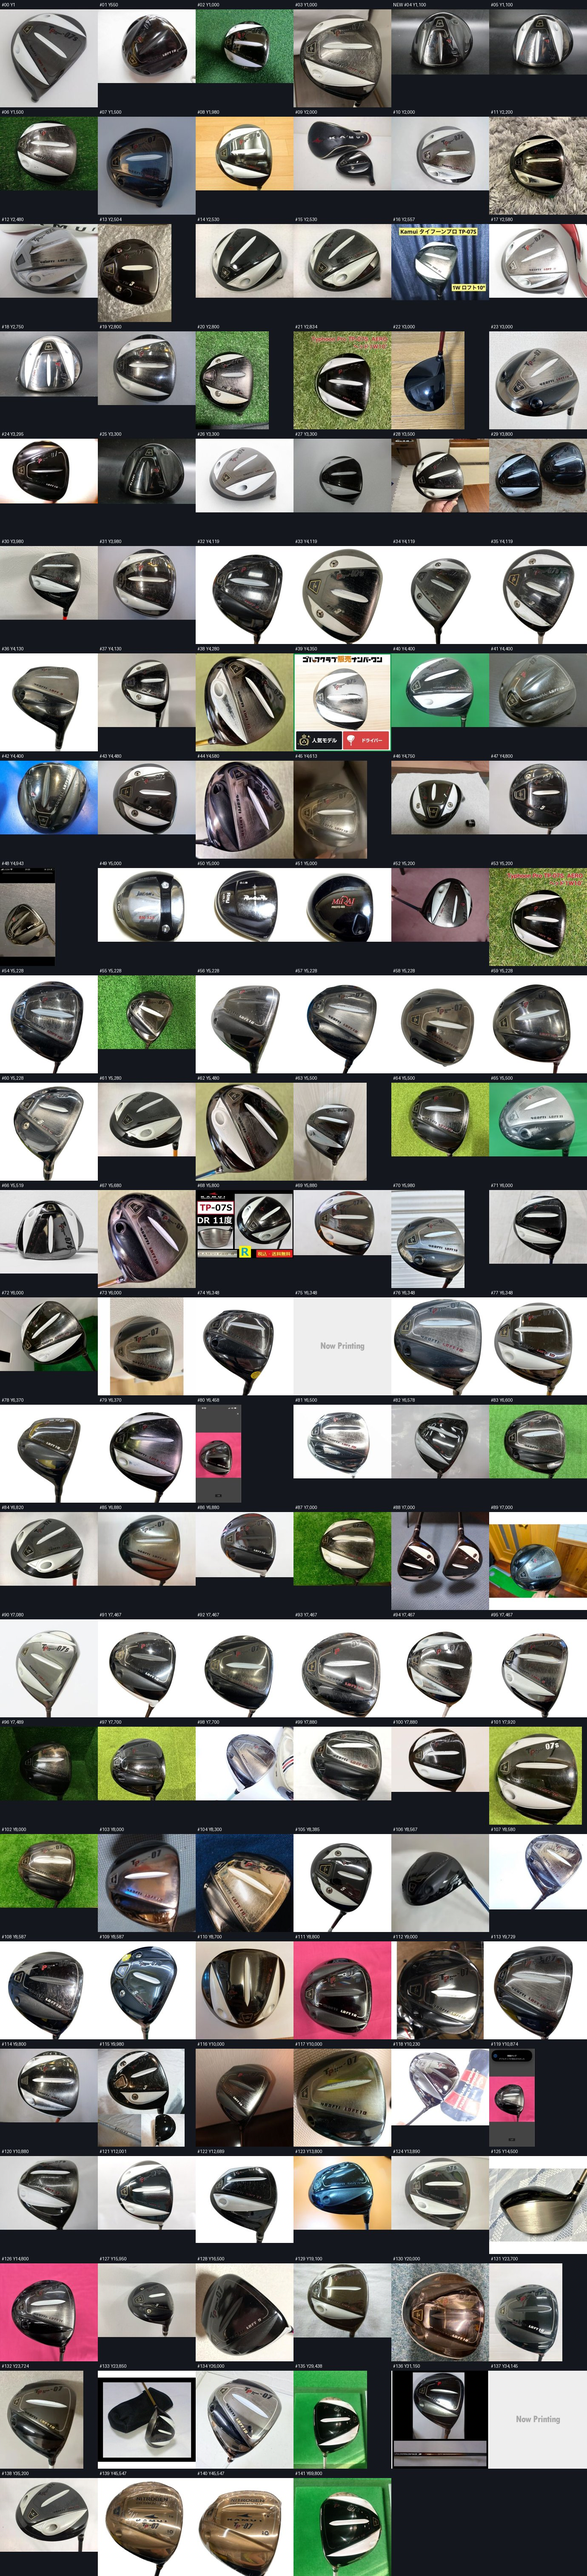
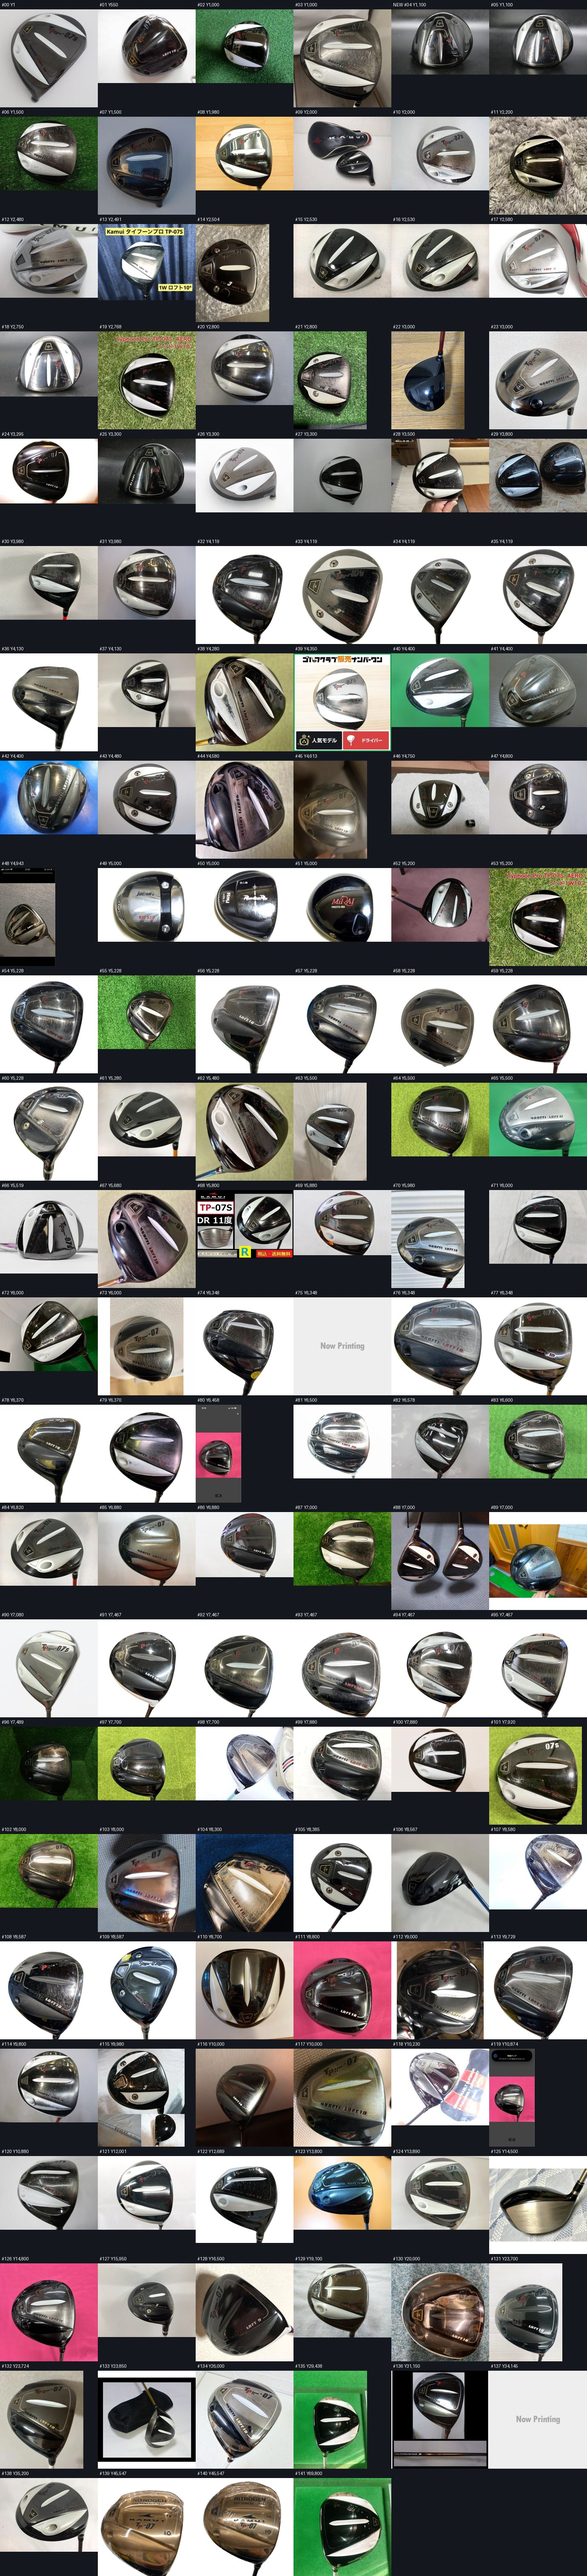
auto scan 2026-08-28 21:46UTC

Changed region(s): [[0.1558, 0.0625, 0.8413, 0.1875], [0.3428, 0.9375, 0.4986, 1.0], [0.1558, 0.9375, 0.3116, 1.0]]

diff --git a/index.html b/index.html
@@ -48,7 +48,7 @@
 </style></head><body>
 <header>
   <h1>🌀 カムイ TP-07 金ロフト・ガスのみ ハンター</h1>
-  <div class="sub">最終スキャン 2026-08-28 18:45（JST）・GP／ゴルフドゥ／ヤフオク／Yahoo!フリマ／ラクマ／メルカリ</div>
+  <div class="sub">最終スキャン 2026-08-29 06:46（JST）・GP／ゴルフドゥ／ヤフオク／Yahoo!フリマ／ラクマ／メルカリ</div>
   <div class="stats">
     <div class="stat">候補 <b>168</b></div>
     <div class="stat">🟢買える <b>120</b></div>
@@ -107,7 +107,7 @@
         <div class="body">
           <div class="title">カムイ TP-07 爆音ドライバー 10° 金ロフト SR ガスのみ</div>
           <div class="loft gold">金ロフト・ガスのみ濃厚 ★</div>
-          <div class="price">¥19,638</div>
+          <div class="price">¥18,979</div>
           <div class="meta">メルカリ</div>
           <div class="shaft"></div>
         </div>
@@ -188,6 +188,21 @@
         </div>
       </a>
 
+      <a class="card check" href="https://jp.mercari.com/item/m70409725193" target="_blank" rel="noopener">
+        <div class="imgwrap">
+          <img loading="lazy" src="https://static.mercdn.net/thumb/item/webp/m70409725193_1.jpg?1776517068" alt=""
+               onerror="this.style.opacity=.15;this.alt='画像なし'">
+          <span class="b buy">買える</span>
+        </div>
+        <div class="body">
+          <div class="title">Kamui カムイタイフーンプロ TP-07S ドライバー</div>
+          <div class="loft check">要確認（写真で目視）</div>
+          <div class="price">¥2,491</div>
+          <div class="meta">メルカリ</div>
+          <div class="shaft"></div>
+        </div>
+      </a>
+
       <a class="card check" href="https://jp.mercari.com/item/m22506459930" target="_blank" rel="noopener">
         <div class="imgwrap">
           <img loading="lazy" src="https://static.mercdn.net/thumb/item/webp/m22506459930_1.jpg?1744541440" alt=""
@@ -233,21 +248,6 @@
         </div>
       </a>
 
-      <a class="card check" href="https://jp.mercari.com/item/m70409725193" target="_blank" rel="noopener">
-        <div class="imgwrap">
-          <img loading="lazy" src="https://static.mercdn.net/thumb/item/webp/m70409725193_1.jpg?1776517068" alt=""
-               onerror="this.style.opacity=.15;this.alt='画像なし'">
-          <span class="b buy">買える</span>
-        </div>
-        <div class="body">
-          <div class="title">Kamui カムイタイフーンプロ TP-07S ドライバー</div>
-          <div class="loft check">要確認（写真で目視）</div>
-          <div class="price">¥2,557</div>
-          <div class="meta">メルカリ</div>
-          <div class="shaft"></div>
-        </div>
-      </a>
-
       <a class="card check" href="https://auctions.yahoo.co.jp/jp/auction/h1081450756" target="_blank" rel="noopener">
         <div class="imgwrap">
           <img loading="lazy" src="https://auc-pctr.c.yimg.jp/i/auctions.c.yimg.jp/images.auctions.yahoo.co.jp/image/dr000/auc0402/users/2739f70c138bb22a1a1e2682e0c45e68acf372b6/i-img640x480-1676012813nok55z632888.jpg?pri=l&amp;w=300&amp;h=300&amp;up=0&amp;nf_src=sy&amp;nf_path=images/auc/pc/top/image/1.0.3/na_170x170.png&amp;nf_st=200" alt=""
@@ -278,6 +278,21 @@
         </div>
       </a>
 
+      <a class="card check" href="https://jp.mercari.com/item/m13468868938" target="_blank" rel="noopener">
+        <div class="imgwrap">
+          <img loading="lazy" src="https://static.mercdn.net/thumb/item/webp/m13468868938_1.jpg?1786718056" alt=""
+               onerror="this.style.opacity=.15;this.alt='画像なし'">
+          <span class="b buy">買える</span>
+        </div>
+        <div class="body">
+          <div class="title">ヘッドのみ　カムイ　タイフーンプロ TP-07S AERO ドライバー　地クラブ</div>
+          <div class="loft check">要確認（写真で目視）</div>
+          <div class="price">¥2,768</div>
+          <div class="meta">メルカリ</div>
+          <div class="shaft"></div>
+        </div>
+      </a>
+
       <a class="card check" href="https://auctions.yahoo.co.jp/jp/auction/q1121157610" target="_blank" rel="noopener">
         <div class="imgwrap">
           <img loading="lazy" src="https://auc-pctr.c.yimg.jp/i/auctions.c.yimg.jp/images.auctions.yahoo.co.jp/image/dr000/auc0501/users/ee989f00fd9be1c5a0b3ab74dbcedfbaa7a44546/i-img640x480-1705191302mkccbp424356.jpg?pri=l&amp;w=300&amp;h=300&amp;up=0&amp;nf_src=sy&amp;nf_path=images/auc/pc/top/image/1.0.3/na_170x170.png&amp;nf_st=200" alt=""
@@ -304,21 +319,6 @@
           <div class="loft check">要確認（写真で目視）</div>
           <div class="price">¥2,800</div>
           <div class="meta">ヤフオク</div>
-          <div class="shaft"></div>
-        </div>
-      </a>
-
-      <a class="card check" href="https://jp.mercari.com/item/m13468868938" target="_blank" rel="noopener">
-        <div class="imgwrap">
-          <img loading="lazy" src="https://static.mercdn.net/thumb/item/webp/m13468868938_1.jpg?1786718056" alt=""
-               onerror="this.style.opacity=.15;this.alt='画像なし'">
-          <span class="b buy">買える</span>
-        </div>
-        <div class="body">
-          <div class="title">ヘッドのみ　カムイ　タイフーンプロ TP-07S AERO ドライバー　地クラブ</div>
-          <div class="loft check">要確認（写真で目視）</div>
-          <div class="price">¥2,834</div>
-          <div class="meta">メルカリ</div>
           <div class="shaft"></div>
         </div>
       </a>
@@ -1493,9 +1493,9 @@
         </div>
       </a>
 
-      <a class="card check" href="https://www.golfpartner.jp/shop/g/g2100414296261/" target="_blank" rel="noopener">
+      <a class="card check" href="https://www.golfpartner.jp/shop/g/g2100414296278/" target="_blank" rel="noopener">
         <div class="imgwrap">
-          <img loading="lazy" src="https://www.golfpartner.jp/img/goods/L/item2100414296261p1.jpg" alt=""
+          <img loading="lazy" src="https://www.golfpartner.jp/img/goods/L/item2100414296278p1.jpg" alt=""
                onerror="this.style.opacity=.15;this.alt='画像なし'">
           <span class="b buy">買える</span>
         </div>
@@ -1508,9 +1508,9 @@
         </div>
       </a>
 
-      <a class="card check" href="https://www.golfpartner.jp/shop/g/g2100414296278/" target="_blank" rel="noopener">
+      <a class="card check" href="https://www.golfpartner.jp/shop/g/g2100414296261/" target="_blank" rel="noopener">
         <div class="imgwrap">
-          <img loading="lazy" src="https://www.golfpartner.jp/img/goods/L/item2100414296278p1.jpg" alt=""
+          <img loading="lazy" src="https://www.golfpartner.jp/img/goods/L/item2100414296261p1.jpg" alt=""
                onerror="this.style.opacity=.15;this.alt='画像なし'">
           <span class="b buy">買える</span>
         </div>
